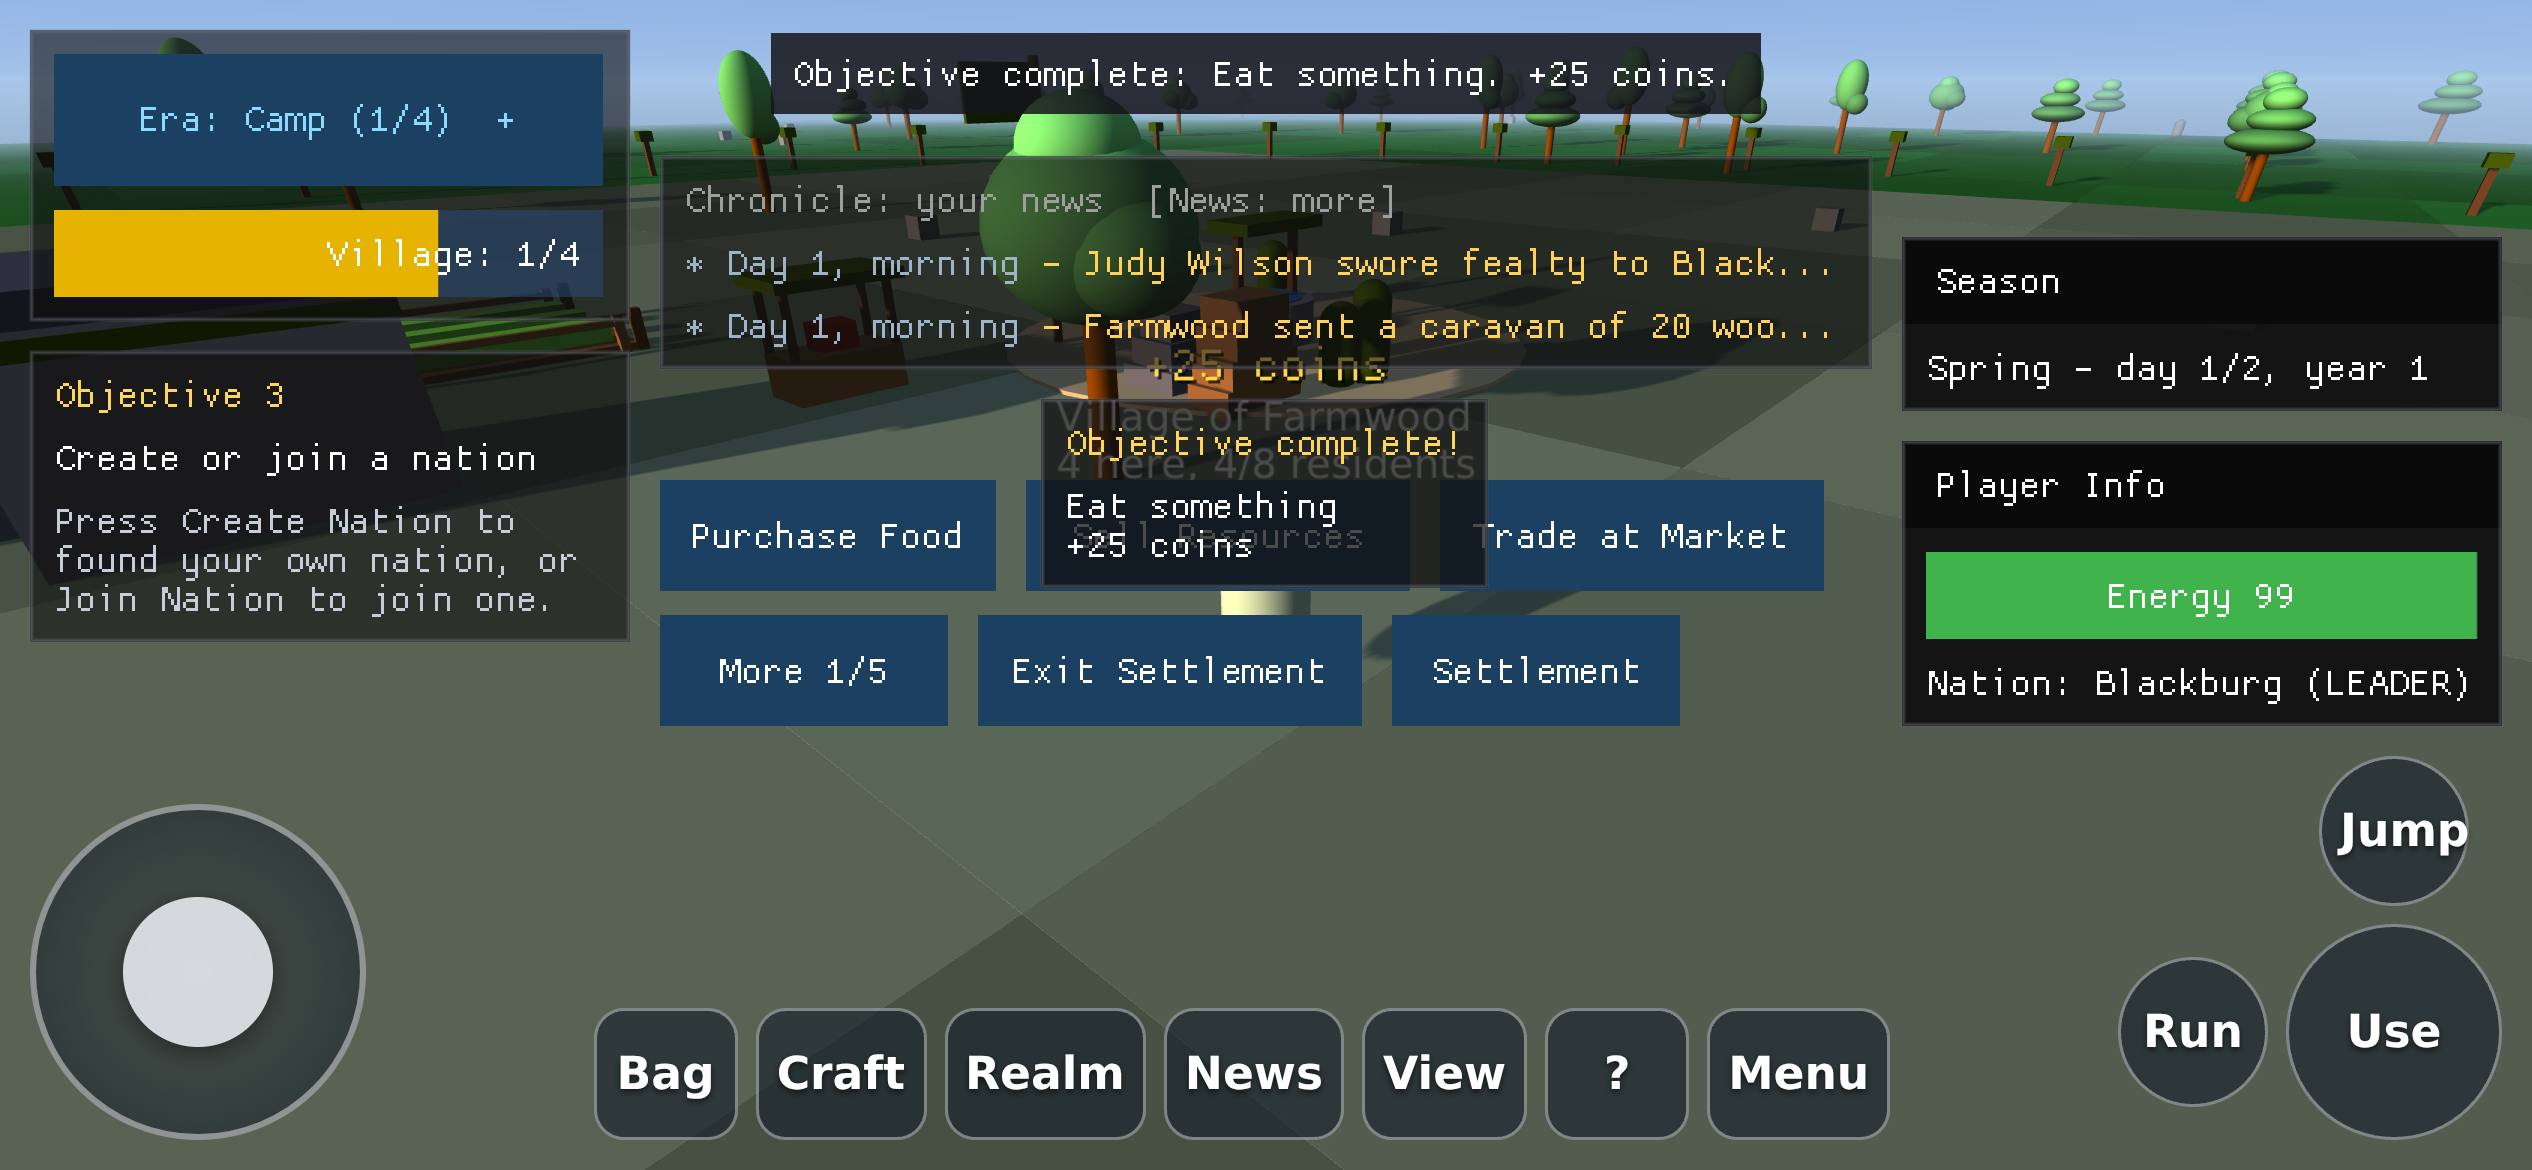
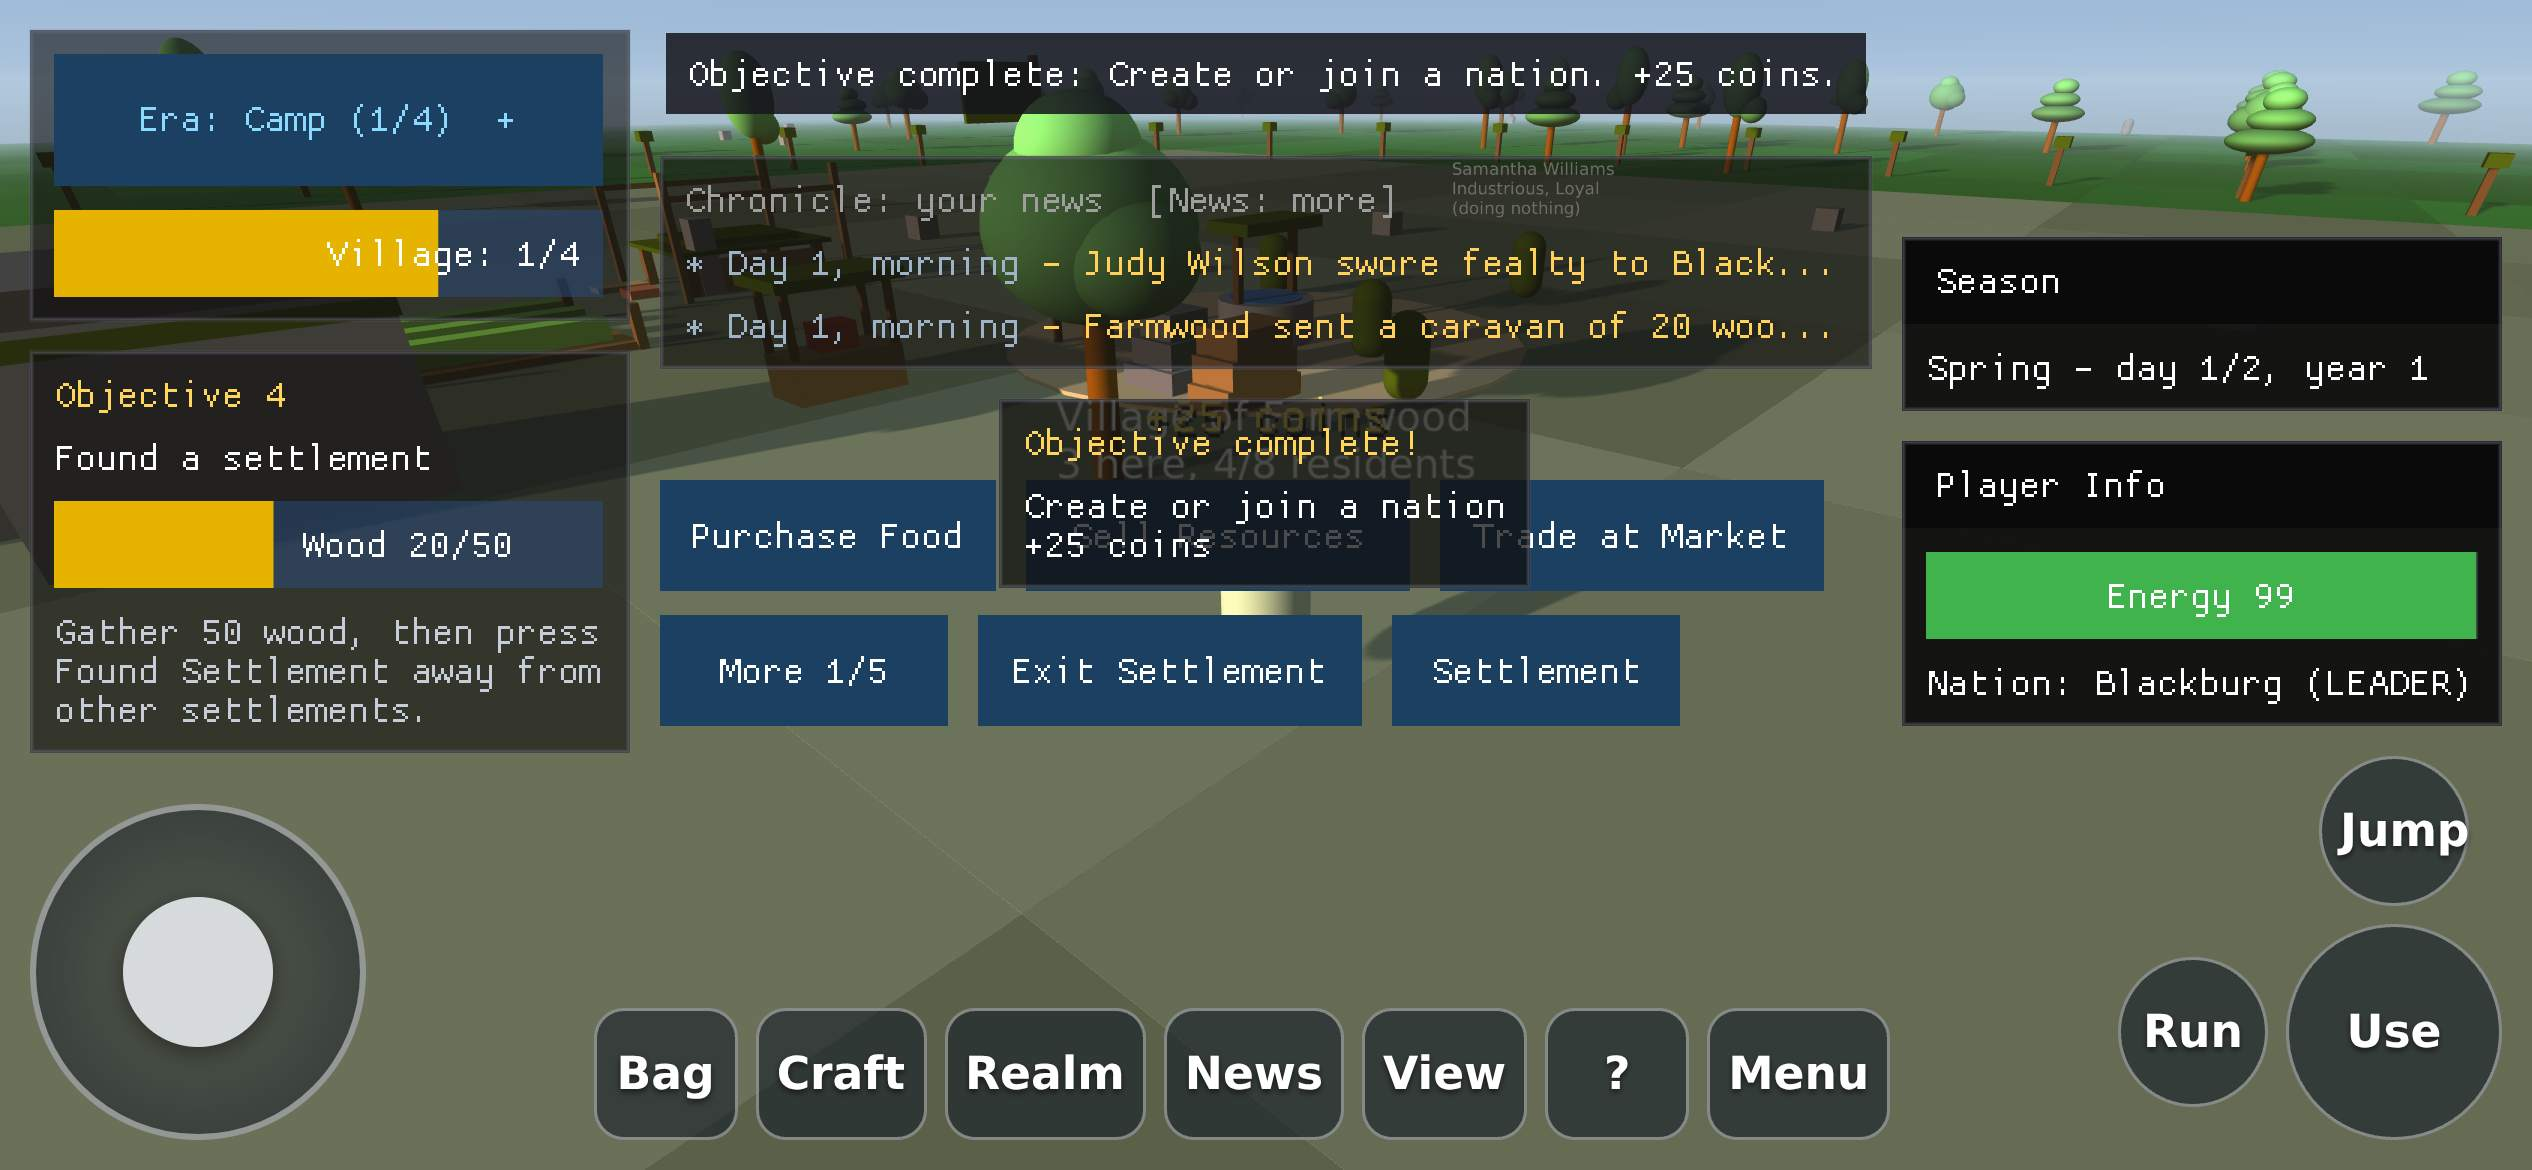
Put the pawn buttons last on a paged bar, in place of the kept rows; refresh the phone shots
Rebased onto #494's kept pawn rows (#486). On a paged touch bar the kept
rows count toward MaxRows when deciding whether to page, but are not
laid out: the pawn buttons go on pages of their own after the drastic
page, so a pawn coming or going adds or removes pages at the end and no
other button moves, with no empty page when no one is in reach. New
tests for the combination and for #493's greyed Appoint Trader on a
phone; phone shots refreshed (one more page in the market town).

Claude-Session: https://claude.ai/code/session_01LYNeukxdP2eURbP7PJnoVK

diff --git a/docs/WEB.md b/docs/WEB.md
@@ -118,14 +118,14 @@ game lays its screens out for a finger (`TouchLayout` in
   controls (on a phone on its side, between the two box columns, under the
   chronicle strip), and when it has more buttons than that it shows them a
   page at a time behind a **More** button at its bottom left ("More 1/5";
-  the drastic buttons get a page of their own). Inside a settlement the
+  the drastic buttons get a page of their own, and the buttons for the person in reach come last, on pages of their own, so someone walking by moves no other button). Inside a settlement the
   right-hand column stops above the controls: the player box (with the
   energy bar) and the Season box always stay, and the market box, then the
   settlement box, are left out when there is no room for them (Trade at
   Market and Settlement show the same). The chronicle strip shows the two
   latest entries on a touch screen; News opens the rest (#466).
 
-  <img src="screenshots/phone-market-command-bar/phone-before.jpg" alt="Before: a phone held upright in a market town, the command bar running under the objective, chronicle and season boxes, and the market box under the touch controls" width="180"> <img src="screenshots/phone-market-command-bar/phone-after-more.jpg" alt="After: the same town, the bar below the season box with More 2/7 and Trade at Market, the right-hand column only the player box" width="180">
+  <img src="screenshots/phone-market-command-bar/phone-before.jpg" alt="Before: a phone held upright in a market town, the command bar running under the objective, chronicle and season boxes, and the market box under the touch controls" width="180"> <img src="screenshots/phone-market-command-bar/phone-after-more.jpg" alt="After: the same town, the bar below the season box with More 2/8 and Trade at Market, the right-hand column only the player box" width="180"> <img src="screenshots/phone-market-command-bar/phone-trader-pawn-page.jpg" alt="The last page of the bar beside a serf: Order Ursula Williams: Gather Wood, and Appoint Ursula Williams Trader greyed, the one trader slot being taken" width="180">
   <img src="screenshots/phone-market-command-bar/landscape-before.jpg" alt="Before: a phone on its side in a market town, the command bar under the era, objective and chronicle boxes and the market box under Jump, Run and Use" width="380"> <img src="screenshots/phone-market-command-bar/landscape-after.jpg" alt="After: the bar between the box columns under the chronicle strip, with More 1/5, Purchase Food, Sell Resources and Trade at Market, and the Season and Player boxes clear of the controls" width="380">
 - A line too wide for the screen (a panel footer on a phone held upright) is
   drawn smaller rather than cut off at both edges.
